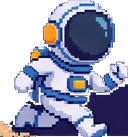
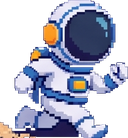
fix(loading): remove background plates from img14 cutouts

diff --git a/assets/manifest.js b/assets/manifest.js
@@ -55,15 +55,15 @@ window.JAMT_ASSETS = {
   "external/rover": { "src": "assets/sprites/external/rover.png", "w": 80, "h": 66 },
   "ice/deposit": { "src": "assets/ice/deposit.png", "w": 128, "h": 58 },
   "rover/ride": { "src": "assets/rover/ride.png", "w": 128, "h": 122 },
-  "loading/astronaut": { "src": "assets/loading/astronaut.png", "w": 128, "h": 137 },
-  "loading/planet_orange": { "src": "assets/loading/planet_orange.png", "w": 52, "h": 46 },
-  "loading/planet_blue": { "src": "assets/loading/planet_blue.png", "w": 64, "h": 65 },
-  "loading/planet_ring": { "src": "assets/loading/planet_ring.png", "w": 80, "h": 72 },
+  "loading/astronaut": { "src": "assets/loading/astronaut.png", "w": 128, "h": 138 },
+  "loading/planet_orange": { "src": "assets/loading/planet_orange.png", "w": 46, "h": 45 },
+  "loading/planet_blue": { "src": "assets/loading/planet_blue.png", "w": 59, "h": 64 },
+  "loading/planet_ring": { "src": "assets/loading/planet_ring.png", "w": 69, "h": 40 },
   "loading/planet_bottom": { "src": "assets/loading/planet_bottom.png", "w": 72, "h": 76 },
-  "loading/satellite_top": { "src": "assets/loading/satellite_top.png", "w": 96, "h": 99 },
-  "loading/satellite_left": { "src": "assets/loading/satellite_left.png", "w": 80, "h": 75 },
-  "loading/asteroid_right": { "src": "assets/loading/asteroid_right.png", "w": 64, "h": 55 },
-  "loading/asteroid_left": { "src": "assets/loading/asteroid_left.png", "w": 64, "h": 55 },
+  "loading/satellite_top": { "src": "assets/loading/satellite_top.png", "w": 95, "h": 91 },
+  "loading/satellite_left": { "src": "assets/loading/satellite_left.png", "w": 80, "h": 83 },
+  "loading/asteroid_right": { "src": "assets/loading/asteroid_right.png", "w": 57, "h": 51 },
+  "loading/asteroid_left": { "src": "assets/loading/asteroid_left.png", "w": 64, "h": 64 },
   "icons/favicon_16": { "src": "assets/icons/favicon-16.png", "w": 16, "h": 16 },
   "icons/favicon_32": { "src": "assets/icons/favicon-32.png", "w": 32, "h": 32 },
   "icons/favicon_48": { "src": "assets/icons/favicon-48.png", "w": 48, "h": 48 },

diff --git a/tools/slice_loading.py b/tools/slice_loading.py
@@ -85,6 +85,82 @@ def flood_alpha(im: Image.Image, tolerance: int = 32, keep_largest: bool = False
     return out.crop(out.getbbox())
 
 
+
+
+def flood_alpha_local(im: Image.Image, tolerance: int = 18, absolute: int = 80,
+                      keep_largest: bool = True) -> Image.Image:
+    """Remove a smooth space gradient from a small cutout.
+
+    The single-colour flood in ``flood_alpha`` works for the planets and the
+    astronaut, but the source has a vignette behind the satellites/asteroids.
+    Grow the background pixel-by-pixel, comparing each step with its parent,
+    so the gradient is removed without eating the object's dark side.
+    """
+    im = im.convert("RGB")
+    w, h = im.size
+    px = im.load()
+    border = ([px[x, 0] for x in range(w)] + [px[x, h - 1] for x in range(w)]
+              + [px[0, y] for y in range(h)] + [px[w - 1, y] for y in range(h)])
+    bg = tuple(sorted(c[i] for c in border)[len(border) // 2] for i in range(3))
+    seen = bytearray(w * h)
+    q = deque()
+
+    def dist(a, b):
+        return abs(a[0] - b[0]) + abs(a[1] - b[1]) + abs(a[2] - b[2])
+
+    def push(x, y, ref):
+        i = y * w + x
+        if not seen[i] and (dist(px[x, y], ref) <= tolerance
+                            or dist(px[x, y], bg) <= absolute):
+            seen[i] = 1
+            q.append((x, y, px[x, y]))
+
+    for x in range(w):
+        push(x, 0, bg); push(x, h - 1, bg)
+    for y in range(h):
+        push(0, y, bg); push(w - 1, y, bg)
+    while q:
+        x, y, ref = q.popleft()
+        for nx, ny in ((x - 1, y), (x + 1, y), (x, y - 1), (x, y + 1)):
+            if 0 <= nx < w and 0 <= ny < h:
+                push(nx, ny, ref)
+
+    alpha = Image.new("L", (w, h), 0)
+    ap = alpha.load()
+    for y in range(h):
+        for x in range(w):
+            if not seen[y * w + x]:
+                ap[x, y] = 255
+
+    if keep_largest:
+        seen2 = bytearray(w * h)
+        best = []
+        for y in range(h):
+            for x in range(w):
+                i = y * w + x
+                if seen2[i] or ap[x, y] == 0:
+                    continue
+                comp = []
+                dq = deque([(x, y)]); seen2[i] = 1
+                while dq:
+                    cx, cy = dq.popleft(); comp.append((cx, cy))
+                    for nx, ny in ((cx - 1, cy), (cx + 1, cy), (cx, cy - 1), (cx, cy + 1)):
+                        if 0 <= nx < w and 0 <= ny < h:
+                            j = ny * w + nx
+                            if not seen2[j] and ap[nx, ny]:
+                                seen2[j] = 1; dq.append((nx, ny))
+                if len(comp) > len(best):
+                    best = comp
+        alpha = Image.new("L", (w, h), 0)
+        ap = alpha.load()
+        for x, y in best:
+            ap[x, y] = 255
+
+    out = im.convert("RGBA")
+    out.putalpha(alpha)
+    return out.crop(out.getbbox())
+
+
 def circle_alpha(im: Image.Image) -> Image.Image:
     im = im.convert("RGB")
     # The planets are nearly circular; mask a centered disc slightly inside the crop.
@@ -111,15 +187,15 @@ def save(im: Image.Image, name: str, width: int, blur: bool = True) -> None:
 
 def main() -> None:
     sheet = Image.open(SRC)
-    save(flood_alpha(sheet.crop((1260, 470, 1515, 805)), 55, True), "astronaut.png", 128, False)
-    save(flood_alpha(sheet.crop((180, 95, 295, 210)), 28, True), "planet_orange.png", 64)
-    save(flood_alpha(sheet.crop((875, 135, 995, 255)), 28, True), "planet_blue.png", 64)
-    save(flood_alpha(sheet.crop((2035, 470, 2180, 600)), 28, True), "planet_ring.png", 80)
-    save(flood_alpha(sheet.crop((2410, 1245, 2580, 1395)), 28, True), "planet_bottom.png", 72)
-    save(flood_alpha(sheet.crop((2210, 220, 2390, 385)), 26, True), "satellite_top.png", 96)
-    save(flood_alpha(sheet.crop((210, 550, 385, 715)), 26, True), "satellite_left.png", 80)
-    save(flood_alpha(sheet.crop((2350, 585, 2490, 705)), 26, True), "asteroid_right.png", 64)
-    save(flood_alpha(sheet.crop((350, 1125, 490, 1245)), 26, True), "asteroid_left.png", 64)
+    save(flood_alpha_local(sheet.crop((1260, 470, 1515, 805)), 10, 50), "astronaut.png", 128, False)
+    save(flood_alpha_local(sheet.crop((180, 95, 295, 210)), 10, 50), "planet_orange.png", 64)
+    save(flood_alpha_local(sheet.crop((875, 135, 995, 255)), 10, 50), "planet_blue.png", 64)
+    save(flood_alpha_local(sheet.crop((2035, 470, 2180, 600)), 10, 50), "planet_ring.png", 80)
+    save(flood_alpha_local(sheet.crop((2410, 1245, 2580, 1395)), 10, 50), "planet_bottom.png", 72)
+    save(flood_alpha_local(sheet.crop((2210, 220, 2390, 385))), "satellite_top.png", 96)
+    save(flood_alpha_local(sheet.crop((210, 550, 385, 715))), "satellite_left.png", 80)
+    save(flood_alpha_local(sheet.crop((2350, 585, 2490, 705))), "asteroid_right.png", 64)
+    save(flood_alpha_local(sheet.crop((350, 1125, 490, 1245))), "asteroid_left.png", 64)
 
 
 if __name__ == "__main__":
